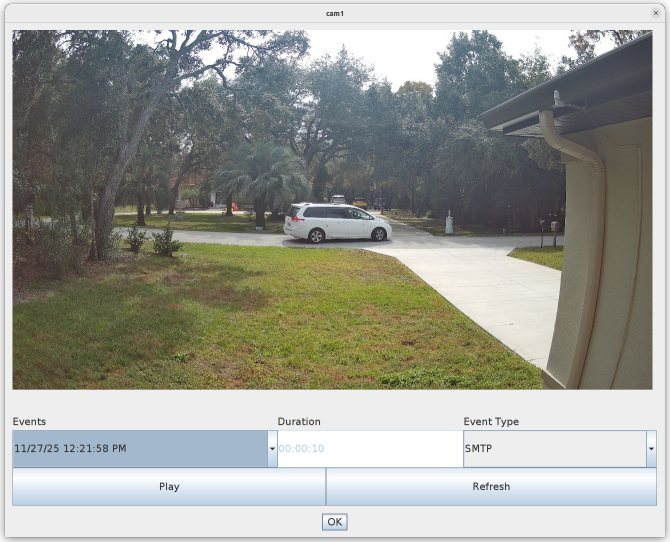
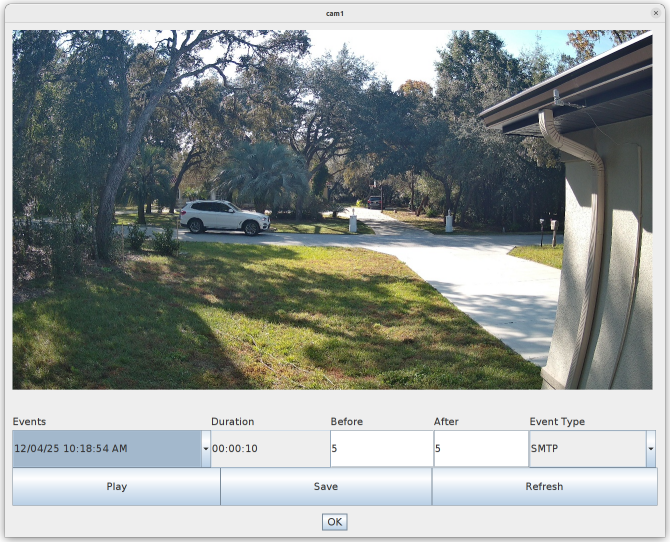
Added ability to save video

diff --git a/client/src/main/java/com/codeferm/alarmbian/PlayUI.java b/client/src/main/java/com/codeferm/alarmbian/PlayUI.java
@@ -16,6 +16,7 @@ import de.milchreis.uibooster.model.formelements.TextFormElement;
 import java.awt.Font;
 import java.awt.image.BufferedImage;
 import java.io.BufferedReader;
+import java.io.File;
 import java.io.IOException;
 import java.io.InputStreamReader;
 import java.time.Duration;
@@ -35,7 +36,6 @@ import org.opencv.imgcodecs.Imgcodecs;
 import org.opencv.imgproc.Imgproc;
 import org.springframework.beans.factory.annotation.Autowired;
 import org.springframework.beans.factory.annotation.Value;
-import org.springframework.context.ApplicationContext;
 import org.springframework.stereotype.Component;
 import picocli.CommandLine.Command;
 
@@ -51,8 +51,6 @@ import picocli.CommandLine.Command;
 @Command(name = "playUI")
 public class PlayUI implements Callable<Integer>, FormElementChangeListener {
 
-    @Autowired
-    private ApplicationContext context;
     /**
      * Play logic.
      */
@@ -88,10 +86,15 @@ public class PlayUI implements Callable<Integer>, FormElementChangeListener {
     @Value("${remoteFromPath}")
     private String remoteFromPath;
     /**
-     * Remote from path.
+     * Remote to path.
      */
     @Value("${remoteToPath}")
     private String remoteToPath;
+    /**
+     * Local path.
+     */
+    @Value("${localPath}")
+    private String localPath;
     /**
      * Play before event in seconds.
      */
@@ -123,7 +126,7 @@ public class PlayUI implements Callable<Integer>, FormElementChangeListener {
     /**
      * Destination Mat.
      */
-    private Mat dest;
+    private final Mat dest;
     /**
      * SMTP images?
      */
@@ -173,6 +176,11 @@ public class PlayUI implements Callable<Integer>, FormElementChangeListener {
         index = images.size() - 1;
     }
 
+    /**
+     * Blocking call until OK button pressed.
+     *
+     * @return @throws Exception Possible exception.
+     */
     public Integer call() throws Exception {
         final var dialog = booster.showWaitingDialog("Operation", play.getDeviceName());
         dialog.addToLargeMessage("Refresh data");
@@ -194,6 +202,8 @@ public class PlayUI implements Callable<Integer>, FormElementChangeListener {
                 startRow().
                 addButton("Play", () -> {
                 }).setID("play").
+                addButton("Save", () -> {
+                }).setID("save").
                 addButton("Refresh", () -> {
                 }).setID("refresh").
                 endRow().
@@ -241,6 +251,48 @@ public class PlayUI implements Callable<Integer>, FormElementChangeListener {
     public void update(final Form form) {
         var duration = (TextFormElement) form.getById("duration");
         duration.setValue(play.formatDuration(images.get(index).get(0).getEventTime(), images.get(index).get(2).getEventTime()));
+    }
+
+    /**
+     * Use ffmpeg to save file clip.
+     * 
+     * @param fileName Video buffer file.
+     * @param start Start offset.
+     * @param duration Duration in seconds.
+     * @param outputFileName Output file name.
+     */
+    public void saveFile(final String fileName, final long start, final long duration, final String outputFileName) {
+        final var command = new ArrayList<String>();
+        command.add("ffmpeg");
+        command.add("-ss");
+        command.add(String.valueOf(start));
+        command.add("-i");
+        command.add(fileName);
+        command.add("-t");
+        command.add(String.valueOf(duration));
+        command.add("-c");
+        command.add("copy");
+        command.add(outputFileName);
+        final var pb = new ProcessBuilder(command);
+        pb.redirectErrorStream(true);
+        try {
+            final var pc = pb.start();
+            try (final var inputStatus = pc.getInputStream(); final var readStatus = new BufferedReader(new InputStreamReader(inputStatus))) {
+                while (readStatus.readLine() != null) {
+                    // Consume FFmpeg output/status (optional)
+                }
+            }
+            try {
+                pc.waitFor();
+                pc.destroy();
+                log.debug("File saved successfully to {}", outputFileName);
+            } catch (InterruptedException e) {
+                Thread.currentThread().interrupt(); // Best practice for interrupted exception
+                throw new RuntimeException("Process interrupted", e);
+            }
+        } catch (IOException e) {
+            throw new RuntimeException("Failed to execute FFmpeg command", e);
+        }
     }
 
     /**
@@ -321,6 +373,18 @@ public class PlayUI implements Callable<Integer>, FormElementChangeListener {
                 final var fileName = images.get(index).get(0).getEventData().replace(remoteFromPath, remoteToPath);
                 playFile(fileName, start.getSeconds(), duration.getSeconds());
             }
+            case "save" -> {
+                final var bufferStart = buffers.get(images.get(index).get(0).getEventData()).getEventTime().toInstant();
+                final var motionStart = images.get(index).get(0).getEventTime().toInstant();
+                final var motionStop = images.get(index).get(2).getEventTime().toInstant();
+                final var start = Duration.between(bufferStart, motionStart).minusSeconds(playBefore);
+                final var duration = Duration.between(motionStart, motionStop).plusSeconds(playAfter);
+                final var fileName = images.get(index).get(0).getEventData().replace(remoteFromPath, remoteToPath);
+                var file = new File(images.get(index).get(1).getEventData().replace("jpg", "mkv"));
+                var saveFileName = file.getName();
+                saveFile(fileName, start.getSeconds(), duration.getSeconds(), String.format("%s%s%s", localPath,
+                        File.separator, saveFileName));
+            }
             case "events" -> {
                 var value = (String) form.getById("events").getValue();
                 // This will happen when Refresh pressed bacause selection list is updated
@@ -367,7 +431,8 @@ public class PlayUI implements Callable<Integer>, FormElementChangeListener {
                     }
                 }
             }
-            default -> booster.showErrorDialog(String.format("%s onChange not handled", fe.getId()), "Error");
+            default ->
+                booster.showErrorDialog(String.format("%s onChange not handled", fe.getId()), "Error");
         }
         update(form);
     }

diff --git a/README.md b/README.md
@@ -200,6 +200,7 @@ To remove volume
 
 ## Play UI
 Play UI is a [UiBooster](https://github.com/Milchreis/UiBooster) based UI that uses OpenCV and ffplay to view events and play videos.
+You can set before and after seconds to see what was before and after event. You can also save event as video.
 ![Client](images/client.png)
 * `sudo apt install sshfs`
 * `sudo mkdir /mnt/data` or whatever local dir you want to use
